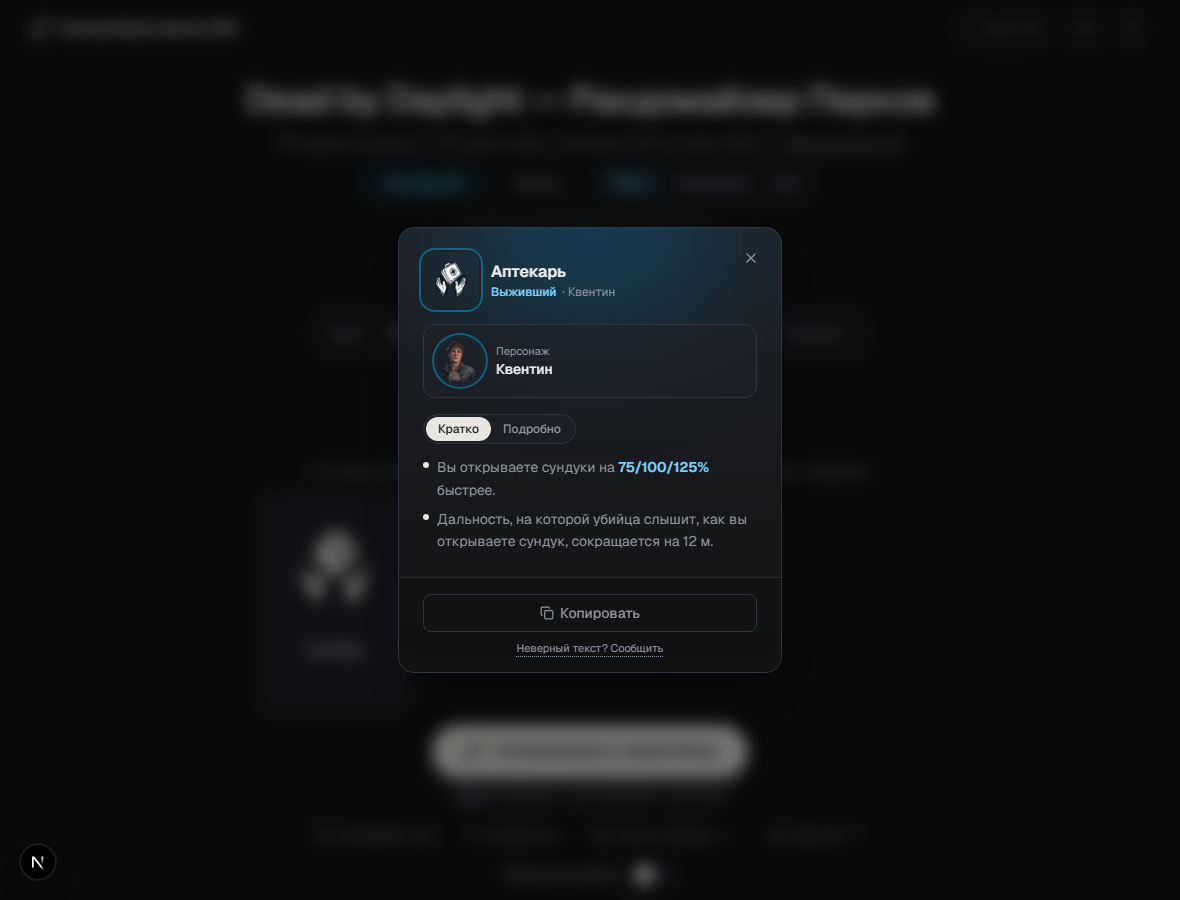
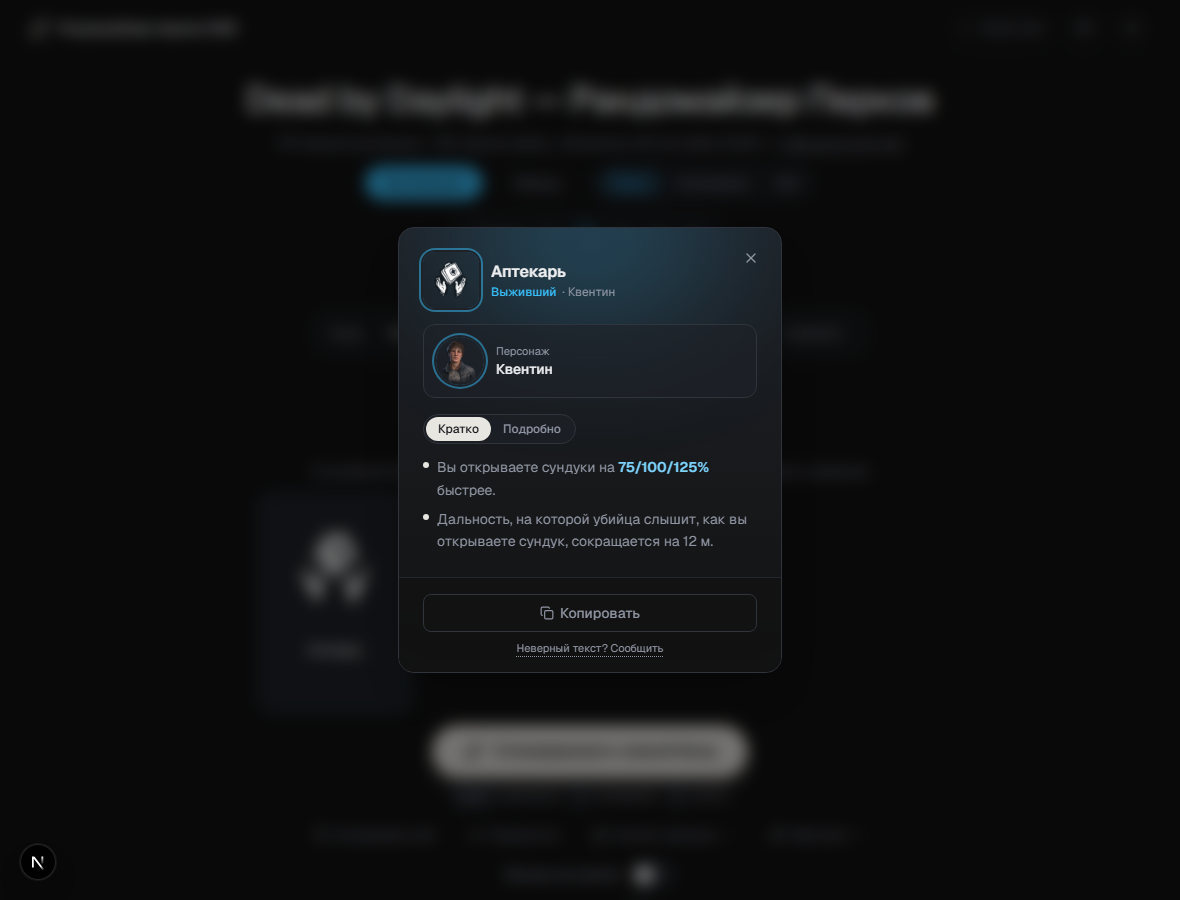
Give each role a colour that can actually be seen
Survivor and killer rendered as the same monochrome grid. The reason was
measurable: ROLE_COLOR carried one value per role for BOTH themes, and
sky-400/rose-400 score 7.46 and 5.94 on the dark card but 2.14 and 2.69 on
the light one, against an AA floor of 4.5. A colour unusable at full
strength in half the product gets diluted everywhere until it is safe — at
/10 the two roles painted #1c2f3b and #33252d, 28.7 apart out of 441,
which is less than the distance between a card and its own border.

So the roles are now theme-aware tokens, the way --highlight-* already
was. Dark keeps the values it had; light takes the shades this project had
already validated. Everything measured on the surface it lands on:

                dark surface   light surface
  survivor          7.46           5.93
  killer            5.94           6.29
  switch label      8.74 / 6.96    5.58 / 5.91

Applied to structure only — the role switch as a real fill rather than a
10% wash, and the card and loadout tile edges. Never the perk art, which is
uniform line work on purpose.

The role switch loses its colour transition. The URL's role is applied
after mount so the button changes state on load, and animating from a muted
label on bare background to a dark label on a saturated fill passes through
pairs that are briefly unreadable — contrast.spec caught one at 3.65:1
under load. The old wash hid this by never moving far enough to matter.

Changed region(s): [[0.3051, 0.1556, 0.4271, 0.2489], [0.3966, 0.3111, 0.4576, 0.3422]]

diff --git a/lib/role-color.ts b/lib/role-color.ts
@@ -3,6 +3,20 @@ import type { PerkRole } from "./types";
 // Mirrors Dead by Daylight's own convention (blue-ish for survivor HUD/aura
 // reads, red for killer) so perk cards read at a glance instead of every
 // role sharing the site's single green accent.
+//
+// Every class below now resolves through --role-survivor / --role-killer in
+// app/globals.css, which are theme-aware. They used to be Tailwind palette
+// steps with one value for both themes, and that is why the roles barely
+// registered: sky-400 and rose-400 measure 7.46 and 5.94 against the dark
+// card but 2.14 and 2.69 against the light one, against an AA floor of 4.5.
+// A colour that cannot be used at full strength in half the product gets
+// diluted everywhere until it is safe, and at /10 the two roles painted
+// #1c2f3b and #33252d — 28.7 apart out of 441, less than the distance
+// between a card and its own border.
+//
+// Structure only. The perk art is deliberately uniform line work and is
+// handled by `icon-art`; tinting it would make a Survivor's Adrenaline a
+// different picture from a Killer's, which it is not.
 export const ROLE_COLOR: Record<
   PerkRole,
   {
@@ -13,24 +27,37 @@ export const ROLE_COLOR: Record<
     ring: string;
     glow: string;
     solid: string;
+    /** The selected state of the role switch: a real fill, not a 10% wash.
+     *  Measured on its own label — 8.74 and 6.96 on dark, 5.58 and 5.91 on
+     *  light — because a full fill puts the text ON the role colour and
+     *  changes which pair has to clear AA. */
+    fill: string;
+    /** A card's own edge. Low alpha on purpose: this one is a whole-grid
+     *  wash and the cards are already bordered, so it tints rather than
+     *  outlines. Non-text, so 3:1 is the relevant floor, not 4.5. */
+    edge: string;
   }
 > = {
   survivor: {
-    text: "text-highlight-survivor",
-    bg: "bg-sky-500/10",
-    border: "border-sky-500/40",
-    hoverBorder: "hover:border-sky-500/40",
-    ring: "ring-sky-400/40",
-    glow: "bg-sky-500/25",
+    text: "text-role-survivor",
+    bg: "bg-role-survivor/15",
+    border: "border-role-survivor/60",
+    hoverBorder: "hover:border-role-survivor/50",
+    ring: "ring-role-survivor/50",
+    glow: "bg-role-survivor/25",
     solid: "#38bdf8",
+    fill: "border-role-survivor bg-role-survivor text-background",
+    edge: "border-role-survivor/30",
   },
   killer: {
-    text: "text-highlight-killer",
-    bg: "bg-rose-500/10",
-    border: "border-rose-500/40",
-    hoverBorder: "hover:border-rose-500/40",
-    ring: "ring-rose-400/40",
-    glow: "bg-rose-500/25",
+    text: "text-role-killer",
+    bg: "bg-role-killer/15",
+    border: "border-role-killer/60",
+    hoverBorder: "hover:border-role-killer/50",
+    ring: "ring-role-killer/50",
+    glow: "bg-role-killer/25",
     solid: "#fb7185",
+    fill: "border-role-killer bg-role-killer text-background",
+    edge: "border-role-killer/30",
   },
 };

diff --git a/app/globals.css b/app/globals.css
@@ -37,6 +37,24 @@
      surface, so each theme gets a shade tuned for its own ground. */
   --highlight-survivor: #7dd3fc;
   --highlight-killer: #fda4af;
+
+  /* The two colours that mean something, as tokens rather than Tailwind
+     palette steps.
+  
+     lib/role-color.ts carried ONE value per role for both themes, and that
+     is why the roles read so weakly. Measured against the real surfaces,
+     sky-400 and rose-400 score 7.46 and 5.94 on the dark card but 2.14 and
+     2.69 on the light one, against an AA floor of 4.5. Unusable at full
+     strength in one theme, so every use was diluted to /10 and /40 until it
+     was safe — and at those alphas the two roles paint #1c2f3b and #33252d,
+     28.7 apart out of 441, which is LESS than the distance between a card
+     and its own border. Two roles less distinguishable than ordinary chrome.
+  
+     Theme-aware, the way --highlight-* above already is, so the colour can
+     be used at full strength and actually be seen. Dark keeps the values it
+     had; light takes the shades this project already validated. */
+  --role-survivor: #38bdf8;
+  --role-killer: #fb7185;
 }
 
 :root[data-theme="light"] {
@@ -61,6 +79,10 @@
      on near-black and would sit at roughly 2:1 on white. */
   --highlight-survivor: #0369a1;
   --highlight-killer: #be123c;
+  /* 5.93 and 6.29 on white — the dark theme's sky-400/rose-400 would be
+     2.14 and 2.69 here, which is the whole reason these are tokens. */
+  --role-survivor: #0369a1;
+  --role-killer: #be123c;
 }
 
 @theme inline {
@@ -73,6 +95,8 @@
   --color-accent: var(--accent);
   --color-accent-strong: var(--accent-strong);
   --color-accent-foreground: var(--accent-foreground);
+  --color-role-survivor: var(--role-survivor);
+  --color-role-killer: var(--role-killer);
   --color-highlight-survivor: var(--highlight-survivor);
   --color-highlight-killer: var(--highlight-killer);
   --font-sans: var(--font-geist-sans);

diff --git a/components/dbd/randomizer-board.tsx b/components/dbd/randomizer-board.tsx
@@ -1471,9 +1471,22 @@ export function RandomizerBoard() {
                 type="button"
                 onClick={() => selectRole(r)}
                 className={cn(
-                  "tap rounded-full border px-5 py-1.5 text-sm font-medium capitalize transition-colors",
+                  "tap rounded-full border px-5 py-1.5 text-sm font-medium capitalize",
+                  /* The one control whose whole job is saying which side you
+                     are playing, so it carries the colour at full strength
+                     rather than the /10 wash it used to. See the note in
+                     lib/role-color.ts for what that wash actually painted.
+
+                     No `transition-colors`, unlike every other pill here.
+                     The URL's role is applied after mount, so this button
+                     changes state on load — and animating between a muted
+                     label on bare background and a dark label on a saturated
+                     fill passes through pairs that are briefly unreadable.
+                     e2e/contrast.spec.ts caught one at 3.65:1 under load.
+                     The old /10 wash hid this by never moving far enough to
+                     matter. An instant swap has no midpoint to fail. */
                   role === r
-                    ? cn(c.border, c.bg, c.text)
+                    ? c.fill
                     : "border-border text-muted hover:bg-surface-hover hover:text-foreground",
                 )}
               >

diff --git a/components/dbd/perk-grid.tsx b/components/dbd/perk-grid.tsx
@@ -129,7 +129,13 @@ export function PerkGrid({
                 }}
                 aria-label={t({ ru: "Описание:", en: "Description:" }) + " " + perk.name[language]}
                 className={cn(
-                  "group relative flex cursor-pointer flex-col items-center gap-2 rounded-2xl border border-border bg-surface p-3 text-center transition-colors hover:bg-surface-hover focus-visible:ring-2 focus-visible:ring-accent/50 focus-visible:outline-none",
+                  "group relative flex cursor-pointer flex-col items-center gap-2 rounded-2xl border bg-surface p-3 text-center transition-colors hover:bg-surface-hover focus-visible:ring-2 focus-visible:ring-accent/50 focus-visible:outline-none",
+                  /* The card's edge carries the role instead of the neutral
+                     border every other surface uses. Four of these in a row
+                     is the largest thing on the board, so it is the cheapest
+                     place to say which side you are playing — and it costs
+                     no layout, only a border colour. */
+                  roleColor.edge,
                   roleColor.hoverBorder,
                   /* A pinned card is marked on the CARD, not only by the
                      padlock in its corner.

diff --git a/components/dbd/loadout-grid.tsx b/components/dbd/loadout-grid.tsx
@@ -275,7 +275,9 @@ function PieceSlot({
                 piece.name[language]
               }
               className={cn(
-                "absolute inset-0 flex cursor-pointer items-center justify-center overflow-hidden rounded-xl border border-border bg-surface transition-colors hover:bg-surface-hover focus-visible:ring-2 focus-visible:ring-accent/50 focus-visible:outline-none",
+                "absolute inset-0 flex cursor-pointer items-center justify-center overflow-hidden rounded-xl border bg-surface transition-colors hover:bg-surface-hover focus-visible:ring-2 focus-visible:ring-accent/50 focus-visible:outline-none",
+                // Same edge as the perk cards — "All" mode shows both.
+                roleColor.edge,
                 roleColor.hoverBorder,
               )}
             >
